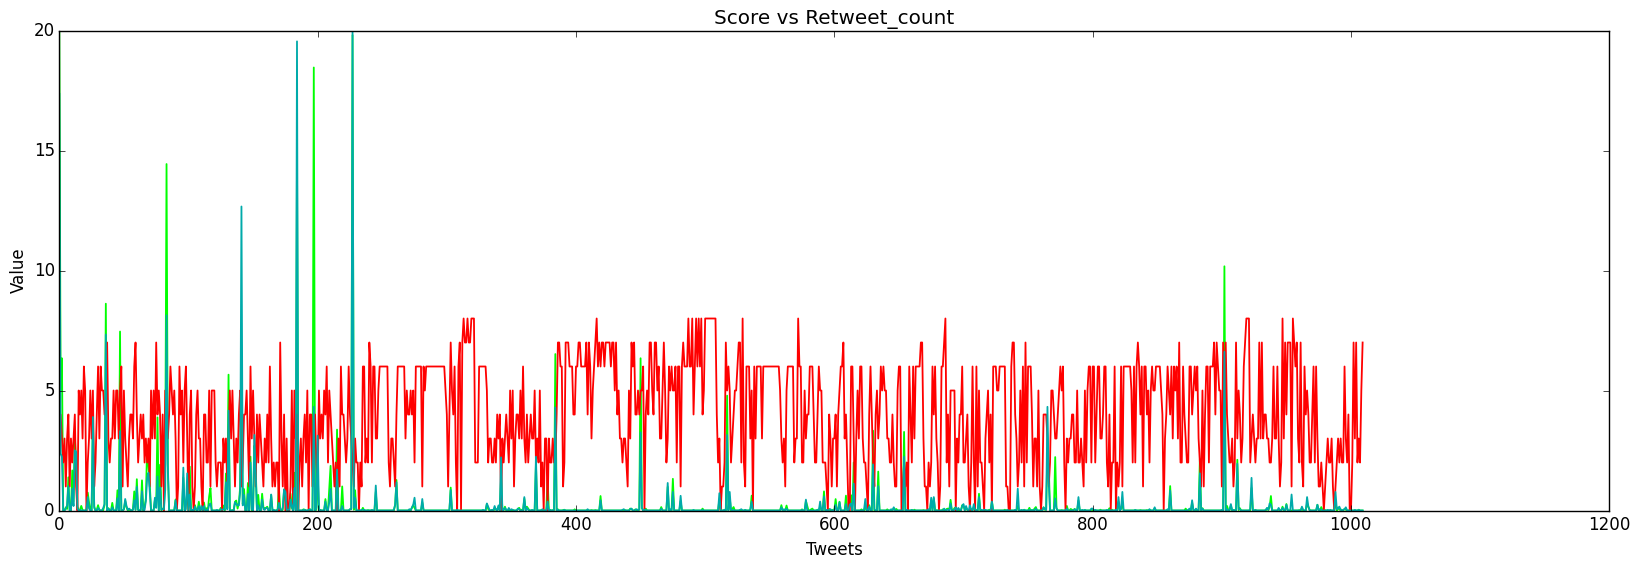
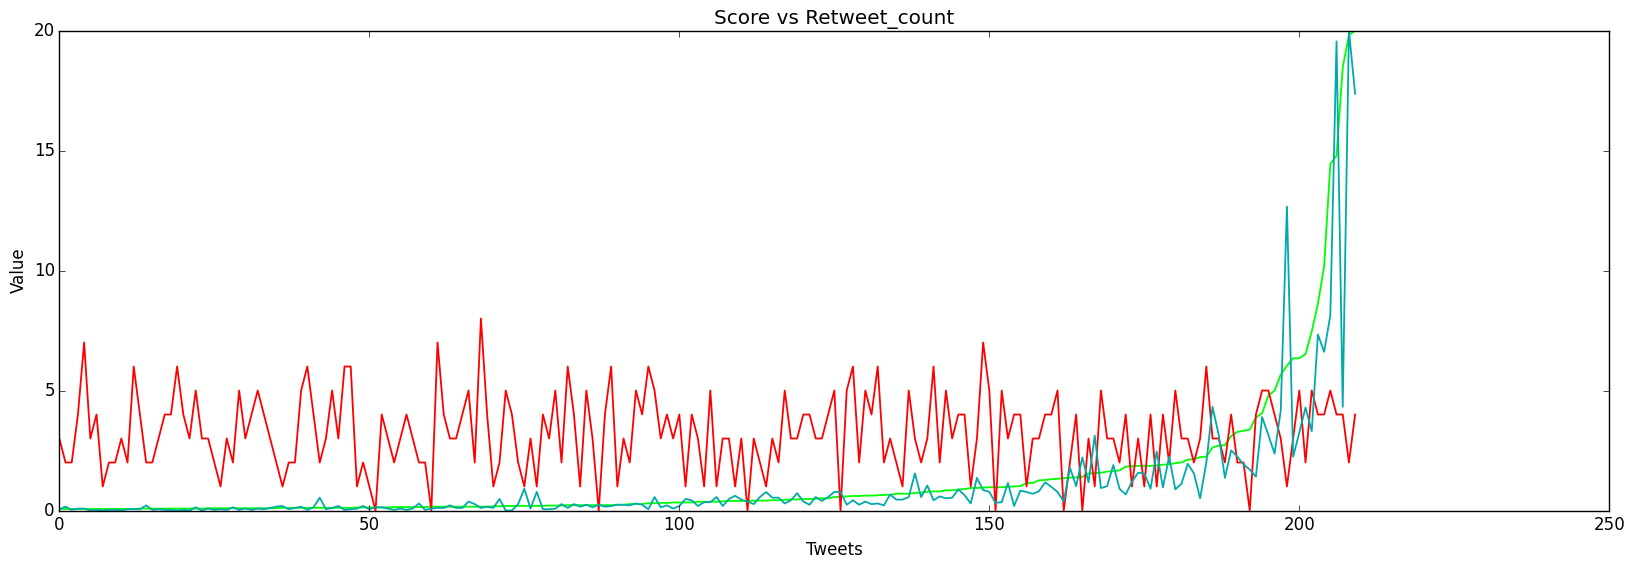
Things There still things to do

diff --git a/tweetclass/code/summary_test.py b/tweetclass/code/summary_test.py
@@ -6,7 +6,7 @@ import pickle
 from pyrouge import Rouge155
 from numpy import *
 import re
-import json
+import math
 
 
 def save_obj(obj, name ):
@@ -155,16 +155,23 @@ def launch_test(test_number,verbose=False):
     
 if __name__ == "__main__":
     
-    raw_mixed_tweets = load_obj("raw_mixed_tweets")
+    #~ raw_mixed_tweets = load_obj("raw_mixed_tweets")
     #~ 
     #~ tweets = load_obj("modeled_mixed_scored_tweets")
     #~ tweets = gt.clear_retweets(raw_mixed_tweets)
     #~ save_obj(add_field("score",tweets,load_tweets_score(tweets,"plain_mixed_tweets")),"modeled_mixed_scored_tweets")
     
     
-    tweets=load_obj("modeled_mixed_scored_tweets")
-    sorted(tweets,lambda key k : "retweet_count")
-    gg.draw_rt_vs_score([tweet["retweet_count"] for tweet in tweets],[tweet["favorite_count"] for tweet in tweets],[tweet["score"] for tweet in tweets])
+    tweets=sorted(load_obj("modeled_mixed_scored_tweets"),key=lambda k : k["score"])
+    
+    max_rt=max([tweet["retweet_count"] for tweet in tweets])
+    max_fav=max([tweet["favorite_count"] for tweet in tweets])
+    #~ print("Max rt: %d\tMax fav: %d" % (max_rt ,max_fav))
+    
+    for tweet in tweets:
+        tweet["metric_score"]=((math.log(tweet["retweet_count"]*30/max_rt + 1)) + (math.log(tweet["favorite_count"]*20/max_fav + 1)*0.75)) + (tweet["score"])
+    
+    gg.draw_rt_vs_score([tweet["retweet_count"] for tweet in tweets],[tweet["favorite_count"] for tweet in tweets],[tweet["score"] for tweet in tweets],[tweet["metric_score"] for tweet in tweets])
     
     if False:
         test_number = "10"

diff --git a/tweetclass/code/generate_graph.py b/tweetclass/code/generate_graph.py
@@ -18,9 +18,9 @@ import matplotlib.ticker as ticker
 #~ except ImportError:
     #~ from io import StringIO
 
-def draw_rt_vs_score(rt,fav,score):
+def draw_rt_vs_score(rt,fav,score,m_sco):
     fig = Figure()
-    fig.set_figwidth(20)
+    fig.set_figwidth(30)
     canvas = FigureCanvas(fig)
     
     ax = fig.add_subplot(1,1,1, axisbg='white')
@@ -40,9 +40,10 @@ def draw_rt_vs_score(rt,fav,score):
     
     ax.plot(ind,rt,"#00FF00",linewidth=1.3)
     ax.plot(ind,score,"#FF0000",linewidth=1.3)
-    ax.plot(ind,fav,"#00AAAA",linewidth=1.3)
+    ax.plot(ind,fav,"#33AAAA",linewidth=1.3)
+    ax.plot(ind,m_sco,"#AAAA33",linewidth=1.3)
     
-    canvas.print_figure('comparision01.png',facecolor='white',bbox_inches='tight')
+    canvas.print_figure('comparision02.png',facecolor='white',bbox_inches='tight')
 
 def general_graph(polarity,name):
     
